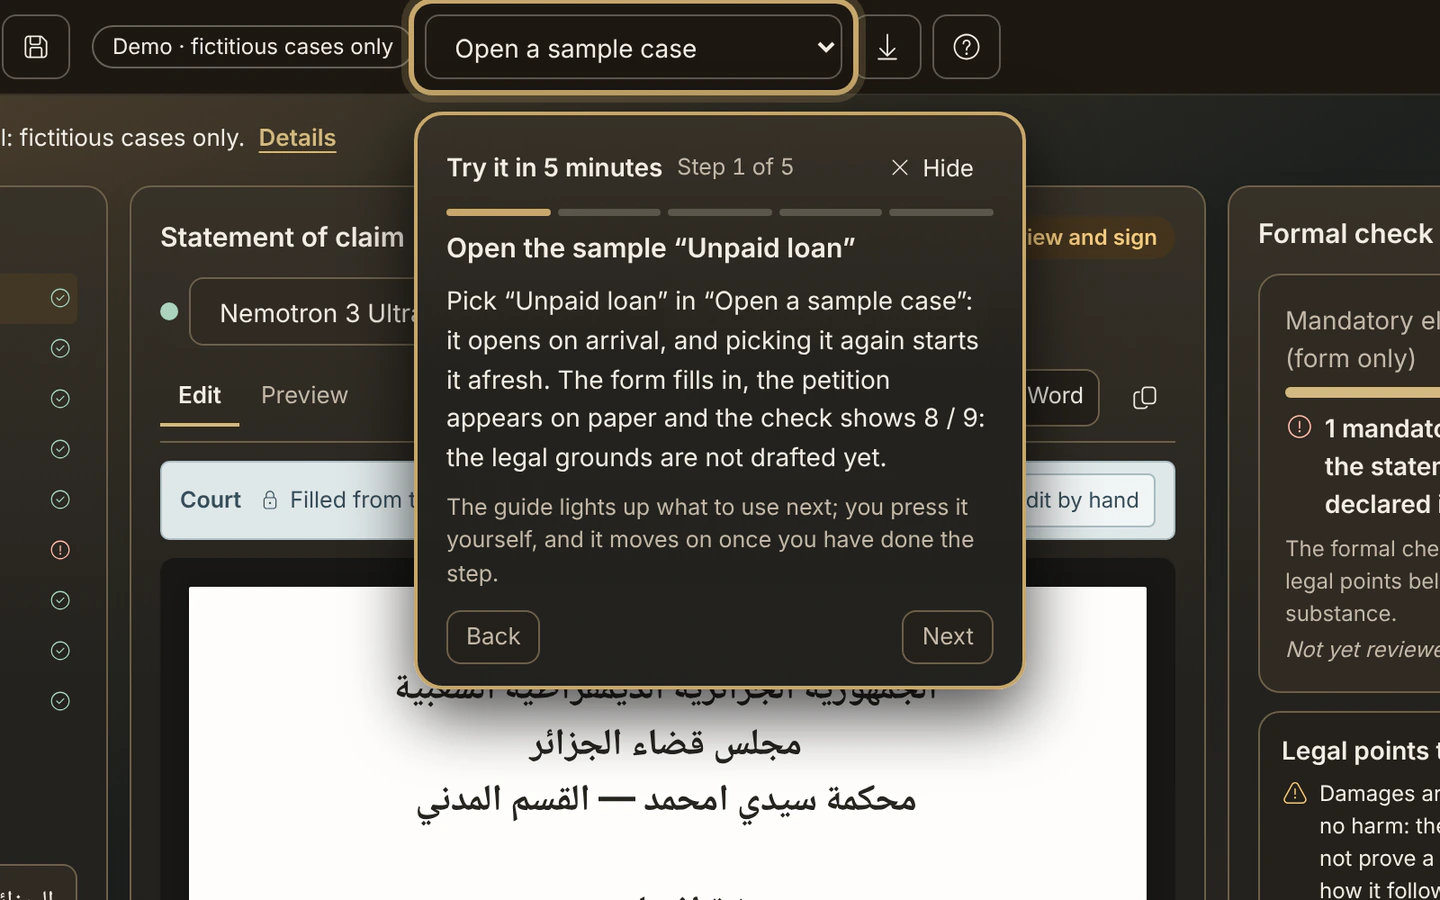
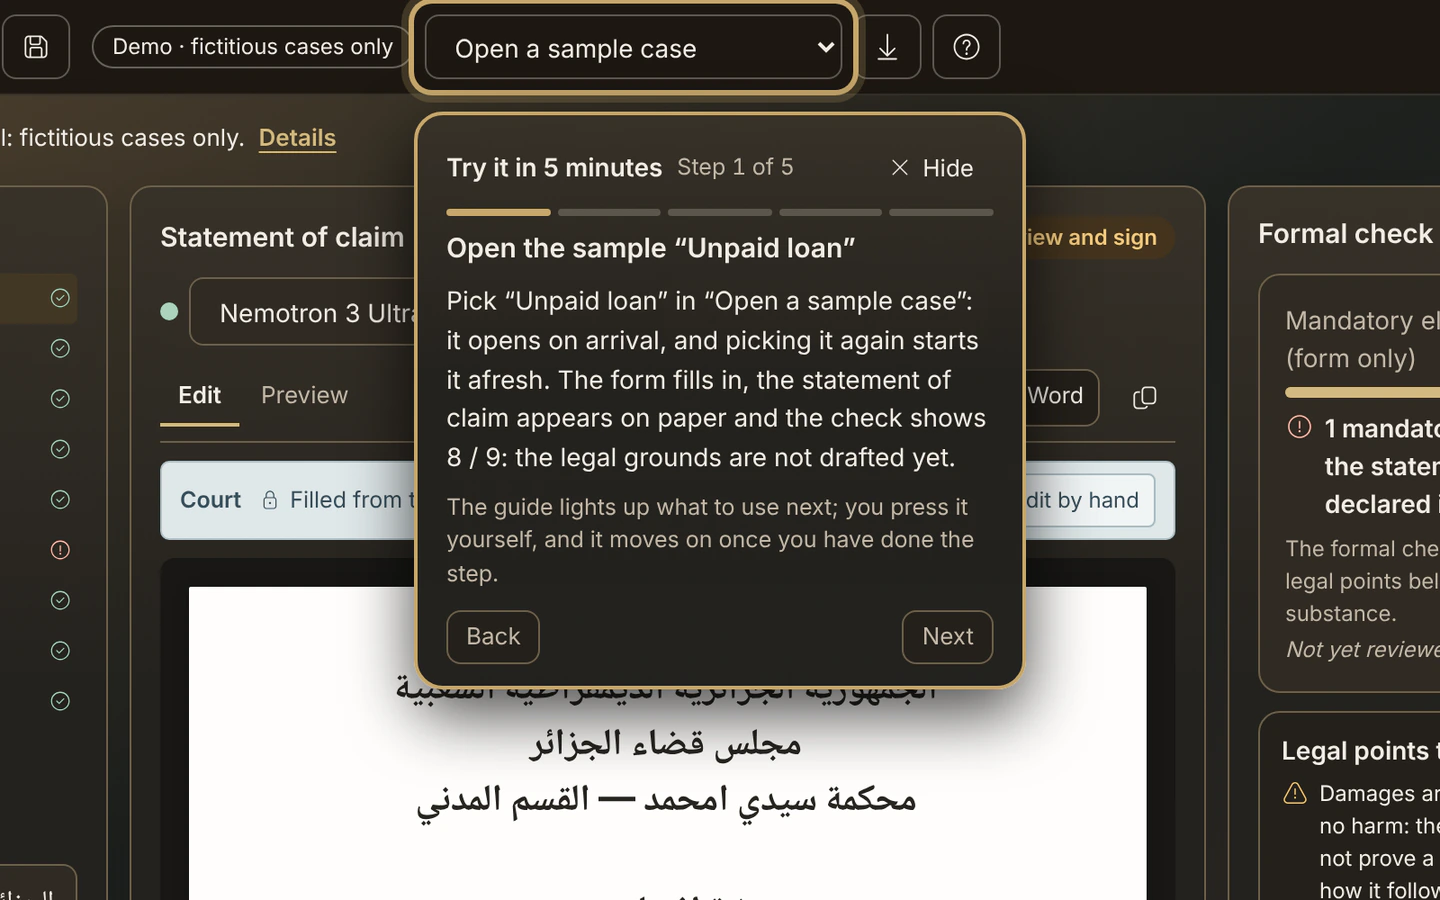
Site: the reel waits for its hints, shows the card large on a phone, and names no model; shorter team lines
- Each step of the guide reel waits 4 s and a quarter of a second a word
  of its hint (14.5 s for the longest, was 7 s for every step).
- On a phone each picture is shown 1.8 to 2.2 times larger around the
  guide's card and its ring, found from their gold outline
  (scripts/reel-focus.mjs); a tap still opens the whole screen.
- The note under the reel gives the dates and says the demo's hosted
  model answered, without naming it: the pictures were taken from a
  machine whose network blocks OpenRouter, so Gemma 4 26B answered,
  while the live demo answers with Nemotron 3 Ultra.
- Step 1 retaken (no AI call) for the demo's new "statement of claim".
- The team's lines on the home are one sentence each; the About page
  keeps the full account.
Tests updated for the note and the longer first step, and added for the
phone zoom and the waits.

Claude-Session: https://claude.ai/code/session_016bgDYiGoy5TGUrzkCiEfjN

Changed region(s): [[0.3125, 0.4044, 0.6875, 0.5289]]

diff --git a/site/tests/site.spec.ts b/site/tests/site.spec.ts
@@ -388,11 +388,25 @@ test("the home's folder 05 shows the demo's guide step by step: tabs, one screen
     await page.keyboard.press("ArrowDown");
     await expect(tabs.nth(3)).toBeFocused();
     await expect(tabs.nth(3)).toHaveAttribute("aria-selected", "true");
-    // The AI steps carry their tag, and the note names the engine that answered and the date of the run.
+    // The AI steps carry their tag, and the note says when the pictures were taken and that the demo's hosted model answered.
     await expect(tabs.nth(2).locator(".tag")).toHaveText("AI");
     await expect(tabs.nth(0).locator(".tag")).toHaveCount(0);
-    await expect(reel.locator(".note")).toContainText("answered by");
+    await expect(reel.locator(".note")).toContainText(/Captured from the demo on .*2026, with its hosted model/);
+    // Each step waits long enough to read its hint: the longer the hint, the longer the wait.
+    const waits = await tabs.evaluateAll((all) => all.map((tab) => parseFloat(getComputedStyle(tab).getPropertyValue("--reel-wait"))));
+    expect(waits.every((w) => w >= 7)).toBe(true);
+    expect(waits[0]).toBeGreaterThan(waits[4]);
     await expect(reel.getByRole("link", { name: "Open the demo with its guide" })).toHaveAttribute("href", "/app?lang=en&guide=1");
+});
+
+test("on a phone the guide reel shows the guide's card large, and the whole screen on a desktop", async ({ page }) => {
+    const scale = () => page.locator("#reel-panel-1 img:visible").first().evaluate((img) => new DOMMatrix(getComputedStyle(img).transform).a);
+    await page.setViewportSize({ width: 390, height: 844 });
+    await page.goto("/en/");
+    await page.locator("#reel-panel-1").scrollIntoViewIfNeeded();
+    expect(await scale()).toBeGreaterThanOrEqual(1.8);
+    await page.setViewportSize({ width: 1366, height: 900 });
+    expect(await scale()).toBe(1);
 });
 
 test("the guide reel moves on by itself while it is on screen, and waits while the pointer is over it", async ({ page }) => {
@@ -406,7 +420,8 @@ test("the guide reel moves on by itself while it is on screen, and waits while t
     await expect(tabs.nth(0)).toHaveAttribute("aria-selected", "true");
     await reel.scrollIntoViewIfNeeded();
     await page.mouse.move(2, 2);
-    await expect(tabs.nth(1)).toHaveAttribute("aria-selected", "true", { timeout: 10_000 });
+    // Step 1's hint is the longest: it waits its own time (under 20 s), then the reel moves on.
+    await expect(tabs.nth(1)).toHaveAttribute("aria-selected", "true", { timeout: 20_000 });
     await reel.locator("[data-reel-panel].current").hover();
     await page.waitForTimeout(8_000);
     await expect(tabs.nth(1)).toHaveAttribute("aria-selected", "true");

diff --git a/site/DESIGN.md b/site/DESIGN.md
@@ -48,7 +48,7 @@ Each face is cut into an Arabic and a Latin file by `scripts/fonts.mjs`; a page 
 - **Register** (`StepStory.astro`): the nine entries ruled like a register, numbered 01 to 09, each ticked with a violet pen stroke (`#tick-shape`).
 - **Report** (`CheckReport.astro`): the formal check typed on a sheet: the app's label, the score, nine boxes that fill with violet ink (red while an element is missing), the verdict.
 - **Who writes what and the guarantees**: the AI's four stages are four ruled lines under a heavy rule, each with its AI or code tag and one line of what it does, beside one picture (the model's reading of the facts, from the desktop capture); the guarantees are four numbered lines, two by two. The hidden-set figures (94%, 67%, 36%) are typed on one slim clipped sheet with their counts and their source.
-- **The guide reel** (`GuideReel.astro`): the five steps as a register of tabs beside one screen of the demo, its guide's gold ring and card as they are at that step (`tests/guide-reel-shots.mjs`, steps 3 and 5 from a real run of the demo's hosted model, the engine that answered named under the reel), and the card's hint under it, verbatim.
+- **The guide reel** (`GuideReel.astro`): the five steps as a register of tabs beside one screen of the demo, its guide's gold ring and card as they are at that step (`tests/guide-reel-shots.mjs`, steps 3 and 5 from a real run of the demo's hosted model; the note under the reel gives the dates and says the hosted model answered, without naming it: from the build machine the run fell back to Gemma 4 26B, whereas the live demo answers with Nemotron 3 Ultra), and the card's hint under it, verbatim.
 - **Buttons**: carbon fill (`.btn-primary`) for the one primary action of a block, carbon outline otherwise; 2 px corners, 48 px tall.
 - **Tags** (`.tag`): a square frame in violet ink; the app's own rounded chips stay inside its pieces.
 
@@ -73,7 +73,7 @@ Secondary pages are one folder each (`Base.astro`, `folder`): try and documents 
 - **The scroll story** (desktop, motion welcome): the register is pinned beside the petition. Each entry is ticked as its section is written on the paper; after the defendant, the domicile disappears, the check drops and names art. 15-3, then it comes back; at 8 / 9 the check turns red and names the missing grounds; the grounds are written last (the quoted rule, then the AI's lines, then the review box), the check reaches 9 / 9 and the stamp strikes once.
 - **Stamps** elsewhere strike once as they come into view (`data-strike`, 170 ms).
 - The try page's steps keep their reveal and their filling line, now in violet.
-- **The guide reel** moves on by itself every 7 s while it is on screen: the current tab's violet line fills, then the next step shows. The pointer over it or the keyboard in it holds it, a click or the arrow keys choose a step and stop it, and its button pauses or plays it. With reduced motion it never moves by itself. Without scripts the five screens stand one under the other.
+- **The guide reel** moves on by itself while it is on screen, each step long enough to read its hint (4 s and a quarter of a second a word, 8 to 15 s): the current tab's violet line fills, then the next step shows. On a phone each picture shows the guide's card large (1.8 to 2.2 times, centred on the card and its ring, found from their gold outline by `scripts/reel-focus.mjs`); a tap opens the whole screen. The pointer over it or the keyboard in it holds it, a click or the arrow keys choose a step and stop it, and its button pauses or plays it. With reduced motion it never moves by itself. Without scripts the five screens stand one under the other.
 - No parallax and no fade-up on every block. With reduced motion, and on phones, the final state is shown: ticked, 9 / 9, stamped.
 
 ## Never
